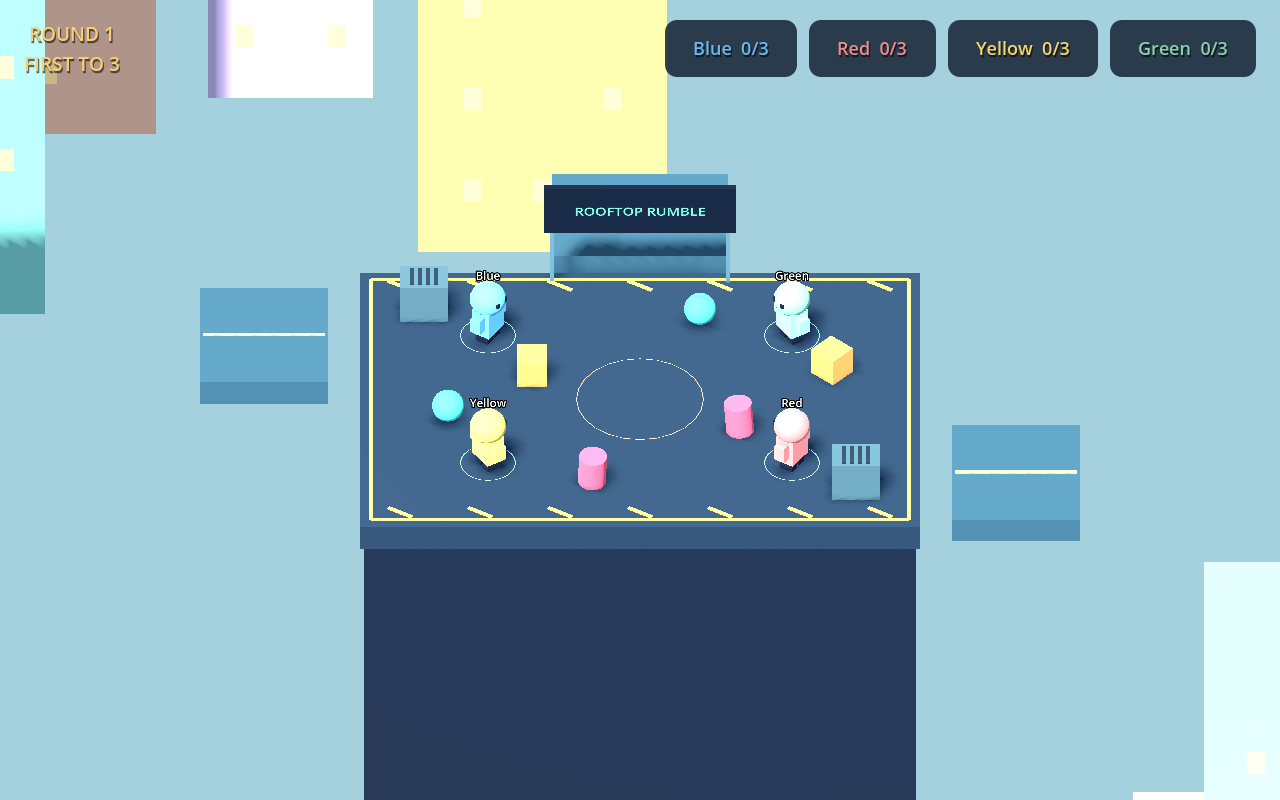
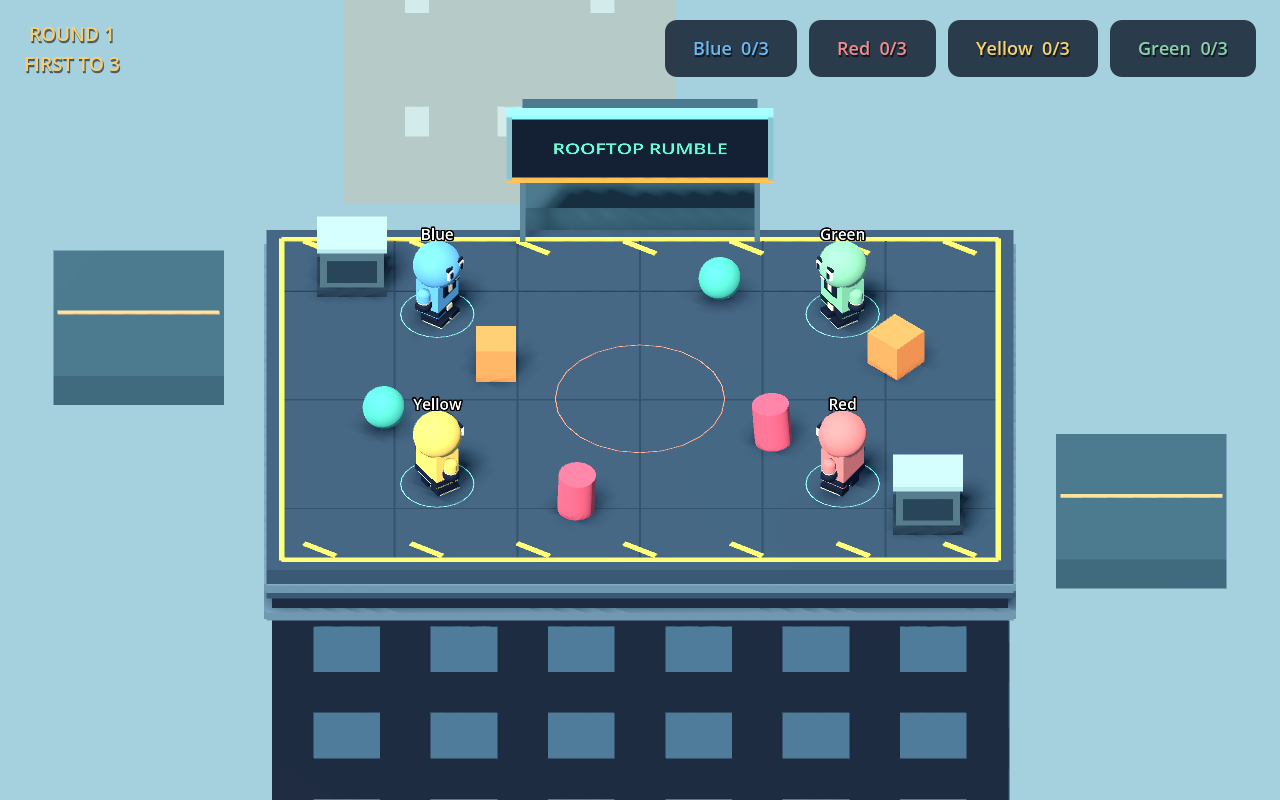
feat(graphics): bring the action closer and polish cartoon visuals
Tighten camera framing while preserving satellite visibility, add fighter and arena details, improve surface lighting and edge smoothing, and remove narrow-embed letterboxing. Preserve gameplay collision geometry and controls.

Validation: 25 gameplay checks, rules suite, native render, production web export, Chromium gameplay, narrow 16:10 framing, and fullscreen passed.
Rollback: revert commit to restore previous presentation.
Risk-Level: low
AI-Agent: Codex (GPT-6)

diff --git a/web/index.html b/web/index.html
@@ -9,7 +9,7 @@
   <title>Rooftop Rumble — Play in your browser</title>
   <style>
     :root{color-scheme:light;--sky:#a6d0db;--ink:#182638;--roof:#30465c;--cream:#fff4dc;--gold:#f9cf76;--pink:#f18b8f}
-    *{box-sizing:border-box}body{margin:0;background:var(--sky);color:var(--ink);font-family:"Avenir Next",Avenir,"Segoe UI",sans-serif;line-height:1.5}button,a{touch-action:manipulation}button{font:inherit;cursor:pointer}a{color:inherit}button:focus-visible,a:focus-visible,summary:focus-visible{outline:3px solid var(--ink);outline-offset:5px}header,main,footer{width:min(1180px,calc(100% - 56px));margin:auto}header{display:flex;align-items:center;justify-content:space-between;padding:25px 0;font-size:12px;letter-spacing:.12em;font-weight:750;text-transform:uppercase}.brand{display:flex;gap:9px;align-items:center}.mark{height:16px;width:24px;background:var(--roof);border-top:4px solid var(--gold);transform:skewY(-12deg)}header a{text-decoration:none;border-bottom:1px solid var(--ink)}.hero{display:grid;grid-template-columns:.95fr 1.05fr;gap:50px;align-items:center;padding:45px 0 50px}.eyebrow{font-size:12px;font-weight:800;letter-spacing:.14em;text-transform:uppercase;margin:0 0 18px}.eyebrow:before{content:"";display:inline-block;width:9px;height:9px;background:var(--pink);border:2px solid var(--ink);margin-right:10px}h1{font-family:Impact,"Arial Narrow",sans-serif;font-size:clamp(64px,8.7vw,112px);font-weight:900;letter-spacing:-.025em;line-height:.94;margin:0 0 27px;text-transform:uppercase}h1 span{display:block;color:var(--cream);text-shadow:3px 3px 0 var(--roof)}.tagline{font-size:22px;font-weight:750;margin:0 0 8px}.intro{max-width:390px;font-size:16px;margin:0 0 27px}.play{display:inline-flex;align-items:center;gap:35px;background:var(--gold);color:var(--ink);border:2px solid var(--ink);border-radius:8px;padding:16px 24px;font-weight:850;box-shadow:4px 5px 0 var(--roof);transition:transform .15s,box-shadow .15s}.play:hover{transform:translate(2px,2px);box-shadow:2px 3px 0 var(--roof)}.play:disabled{opacity:.7;cursor:default}.play .arrow{font-size:24px;line-height:1}.subnote{font-size:12px;margin:15px 0 0;opacity:.85}.preview{margin:0;position:relative;transform:rotate(-2deg);background:var(--roof);padding:10px;border-radius:8px;box-shadow:12px 13px 0 #709eac}.preview img{display:block;width:100%;height:auto;aspect-ratio:1.6;object-fit:cover;border-radius:3px}.preview figcaption{color:var(--cream);display:flex;justify-content:space-between;gap:12px;font-size:11px;letter-spacing:.08em;text-transform:uppercase;padding:12px 5px 3px}.rooftop-rule{height:8px;background:repeating-linear-gradient(45deg,var(--gold) 0 16px,var(--roof) 16px 32px);border-radius:2px}.quick-rules{display:grid;grid-template-columns:repeat(3,1fr);gap:40px;padding:27px 0 30px}.quick-rules h2{font-size:16px;margin:0 0 5px}.quick-rules p{font-size:14px;margin:0;max-width:300px}.stage{background:var(--ink);border:2px solid var(--roof);border-radius:10px;overflow:hidden;margin:8px 0 26px;color:var(--cream)}.stage[hidden]{display:none}.stage-bar{display:flex;justify-content:space-between;align-items:center;gap:16px;padding:12px 18px}.stage-bar p{margin:0;font-size:13px}.stage-bar button{border:1px solid #69849a;border-radius:5px;background:var(--roof);color:var(--cream);padding:7px 12px;font-size:12px}.viewport{aspect-ratio:16/10;position:relative;background:#111d2b}.viewport iframe{width:100%;height:100%;border:0;display:block}.load-note{position:absolute;top:14px;left:50%;transform:translateX(-50%);border-radius:6px;background:var(--ink);padding:9px 16px;font-size:13px;text-align:center;width:max-content;max-width:90%;pointer-events:none}.load-note[hidden]{display:none}.stage-footer{padding:10px 18px;font-size:12px;display:flex;gap:14px;flex-wrap:wrap}.stage:fullscreen{width:100%;height:100%;display:flex;flex-direction:column;border:0;border-radius:0}.stage:fullscreen .viewport{flex:1;aspect-ratio:auto}.controls{border-top:1px solid #608693;padding:22px 0 26px}.controls summary{cursor:pointer;font-size:15px;font-weight:750;width:fit-content}.control-grid{display:grid;grid-template-columns:repeat(3,1fr);gap:30px;margin-top:20px}.control-grid h3{font-size:13px;text-transform:uppercase;letter-spacing:.08em;margin:0 0 10px}.control-grid dl{margin:0;display:grid;grid-template-columns:1fr 1fr;gap:7px;font-size:13px}.control-grid dd{margin:0;font-weight:750}.control-note{font-size:13px;margin:20px 0 0;max-width:800px}footer{font-size:11px;padding:0 0 22px;opacity:.8}.mobile-note{display:none}.error-note{color:var(--gold)}@media(max-width:760px){header,main,footer{width:calc(100% - 32px)}header{font-size:10px;padding:20px 0}.hero{grid-template-columns:1fr;gap:32px;padding:28px 0 36px}h1{font-size:clamp(62px,16vw,105px)}.intro{max-width:100%}.preview{width:calc(100% - 10px);max-width:560px;justify-self:center}.quick-rules{gap:18px;grid-template-columns:1fr}.quick-rules p{max-width:100%}.control-grid{grid-template-columns:1fr}.control-grid dl{max-width:400px}.mobile-note{display:block;font-size:12px;margin:14px 0 0;font-weight:650}.stage-bar{padding:10px;gap:8px}.stage-bar p{font-size:11px}.stage-bar button{white-space:nowrap}.viewport{aspect-ratio:4/3}}@media(prefers-reduced-motion:reduce){*{transition:none!important;scroll-behavior:auto!important}}
+    *{box-sizing:border-box}body{margin:0;background:var(--sky);color:var(--ink);font-family:"Avenir Next",Avenir,"Segoe UI",sans-serif;line-height:1.5}button,a{touch-action:manipulation}button{font:inherit;cursor:pointer}a{color:inherit}button:focus-visible,a:focus-visible,summary:focus-visible{outline:3px solid var(--ink);outline-offset:5px}header,main,footer{width:min(1180px,calc(100% - 56px));margin:auto}header{display:flex;align-items:center;justify-content:space-between;padding:25px 0;font-size:12px;letter-spacing:.12em;font-weight:750;text-transform:uppercase}.brand{display:flex;gap:9px;align-items:center}.mark{height:16px;width:24px;background:var(--roof);border-top:4px solid var(--gold);transform:skewY(-12deg)}header a{text-decoration:none;border-bottom:1px solid var(--ink)}.hero{display:grid;grid-template-columns:.95fr 1.05fr;gap:50px;align-items:center;padding:45px 0 50px}.eyebrow{font-size:12px;font-weight:800;letter-spacing:.14em;text-transform:uppercase;margin:0 0 18px}.eyebrow:before{content:"";display:inline-block;width:9px;height:9px;background:var(--pink);border:2px solid var(--ink);margin-right:10px}h1{font-family:Impact,"Arial Narrow",sans-serif;font-size:clamp(64px,8.7vw,112px);font-weight:900;letter-spacing:-.025em;line-height:.94;margin:0 0 27px;text-transform:uppercase}h1 span{display:block;color:var(--cream);text-shadow:3px 3px 0 var(--roof)}.tagline{font-size:22px;font-weight:750;margin:0 0 8px}.intro{max-width:390px;font-size:16px;margin:0 0 27px}.play{display:inline-flex;align-items:center;gap:35px;background:var(--gold);color:var(--ink);border:2px solid var(--ink);border-radius:8px;padding:16px 24px;font-weight:850;box-shadow:4px 5px 0 var(--roof);transition:transform .15s,box-shadow .15s}.play:hover{transform:translate(2px,2px);box-shadow:2px 3px 0 var(--roof)}.play:disabled{opacity:.7;cursor:default}.play .arrow{font-size:24px;line-height:1}.subnote{font-size:12px;margin:15px 0 0;opacity:.85}.preview{margin:0;position:relative;transform:rotate(-2deg);background:var(--roof);padding:10px;border-radius:8px;box-shadow:12px 13px 0 #709eac}.preview img{display:block;width:100%;height:auto;aspect-ratio:1.6;object-fit:cover;border-radius:3px}.preview figcaption{color:var(--cream);display:flex;justify-content:space-between;gap:12px;font-size:11px;letter-spacing:.08em;text-transform:uppercase;padding:12px 5px 3px}.rooftop-rule{height:8px;background:repeating-linear-gradient(45deg,var(--gold) 0 16px,var(--roof) 16px 32px);border-radius:2px}.quick-rules{display:grid;grid-template-columns:repeat(3,1fr);gap:40px;padding:27px 0 30px}.quick-rules h2{font-size:16px;margin:0 0 5px}.quick-rules p{font-size:14px;margin:0;max-width:300px}.stage{background:var(--ink);border:2px solid var(--roof);border-radius:10px;overflow:hidden;margin:8px 0 26px;color:var(--cream)}.stage[hidden]{display:none}.stage-bar{display:flex;justify-content:space-between;align-items:center;gap:16px;padding:12px 18px}.stage-bar p{margin:0;font-size:13px}.stage-bar button{border:1px solid #69849a;border-radius:5px;background:var(--roof);color:var(--cream);padding:7px 12px;font-size:12px}.viewport{aspect-ratio:16/10;position:relative;background:#111d2b}.viewport iframe{width:100%;height:100%;border:0;display:block}.load-note{position:absolute;top:14px;left:50%;transform:translateX(-50%);border-radius:6px;background:var(--ink);padding:9px 16px;font-size:13px;text-align:center;width:max-content;max-width:90%;pointer-events:none}.load-note[hidden]{display:none}.stage-footer{padding:10px 18px;font-size:12px;display:flex;gap:14px;flex-wrap:wrap}.stage:fullscreen{width:100%;height:100%;display:flex;flex-direction:column;border:0;border-radius:0}.stage:fullscreen .viewport{flex:1;aspect-ratio:auto}.controls{border-top:1px solid #608693;padding:22px 0 26px}.controls summary{cursor:pointer;font-size:15px;font-weight:750;width:fit-content}.control-grid{display:grid;grid-template-columns:repeat(3,1fr);gap:30px;margin-top:20px}.control-grid h3{font-size:13px;text-transform:uppercase;letter-spacing:.08em;margin:0 0 10px}.control-grid dl{margin:0;display:grid;grid-template-columns:1fr 1fr;gap:7px;font-size:13px}.control-grid dd{margin:0;font-weight:750}.control-note{font-size:13px;margin:20px 0 0;max-width:800px}footer{font-size:11px;padding:0 0 22px;opacity:.8}.mobile-note{display:none}.error-note{color:var(--gold)}@media(max-width:760px){header,main,footer{width:calc(100% - 32px)}header{font-size:10px;padding:20px 0}.hero{grid-template-columns:1fr;gap:32px;padding:28px 0 36px}h1{font-size:clamp(62px,16vw,105px)}.intro{max-width:100%}.preview{width:calc(100% - 10px);max-width:560px;justify-self:center}.quick-rules{gap:18px;grid-template-columns:1fr}.quick-rules p{max-width:100%}.control-grid{grid-template-columns:1fr}.control-grid dl{max-width:400px}.mobile-note{display:block;font-size:12px;margin:14px 0 0;font-weight:650}.stage-bar{padding:10px;gap:8px}.stage-bar p{font-size:11px}.stage-bar button{white-space:nowrap}}@media(prefers-reduced-motion:reduce){*{transition:none!important;scroll-behavior:auto!important}}
   </style>
 </head>
 <body>

diff --git a/memory/DECISIONS.md b/memory/DECISIONS.md
@@ -7,3 +7,10 @@ Export the existing Godot game to single-threaded WebAssembly with the Compatibi
 Keep native Godot play available for development. Browser-first means desktop browsers with keyboard or controllers; touch controls and online multiplayer are outside this release.
 
 Sources: [Godot web export](https://docs.godotengine.org/en/4.5/tutorials/export/exporting_for_web.html), [Vercel configuration](https://vercel.com/docs/project-configuration/vercel-json).
+
+
+## First visual polish (2026-10-11)
+
+The screenshot showed excessive empty sky, tiny fighters, and letterboxing at narrower browser widths. Reduce the orthographic span from 20 to 15 units while fitting at least 24 horizontal units to keep satellite roofs visible. Let the viewport expand with its container and keep the browser embed at 16:10, including below the responsive breakpoint.
+
+Improve current art through suit/face detail, roof seams, architectural trim, quieter skyline colors, linear tonemapping, and 2x MSAA. Batch facade/city windows to keep the browser scene lightweight. Keep physical arena bounds and combat unchanged during this focused visual pass; larger playable maps belong to the proposed content upgrade.

diff --git a/README.md b/README.md
@@ -117,3 +117,8 @@ The single-thread web export loaded in Chromium 151 using WebGL 2 with no consol
 A clean Ubuntu GitHub Actions build downloaded the pinned Linux Godot engine and verified web template, then exported successfully. Check the [browser build workflow](https://github.com/PuvaanRaaj/rooftop-rumble/actions/workflows/web-build.yml) for the latest commit. The Vercel hosting configuration is prepared; a Vercel deployment has not been created.
 
 ![Browser launch page](docs/browser-preview.png)
+
+
+### Closer cartoon presentation
+
+The camera now shows fighters and the main roof roughly one-third larger at the standard 16:10 size, while adapting to keep the side roofs visible. Fighter faces/clothing, roof panels, facade windows, vents, and signage have more detail. The browser embed retains its game aspect ratio at narrower widths and the viewport expands for fullscreen. This visual pass preserves the current playable arena dimensions and combat controls.
